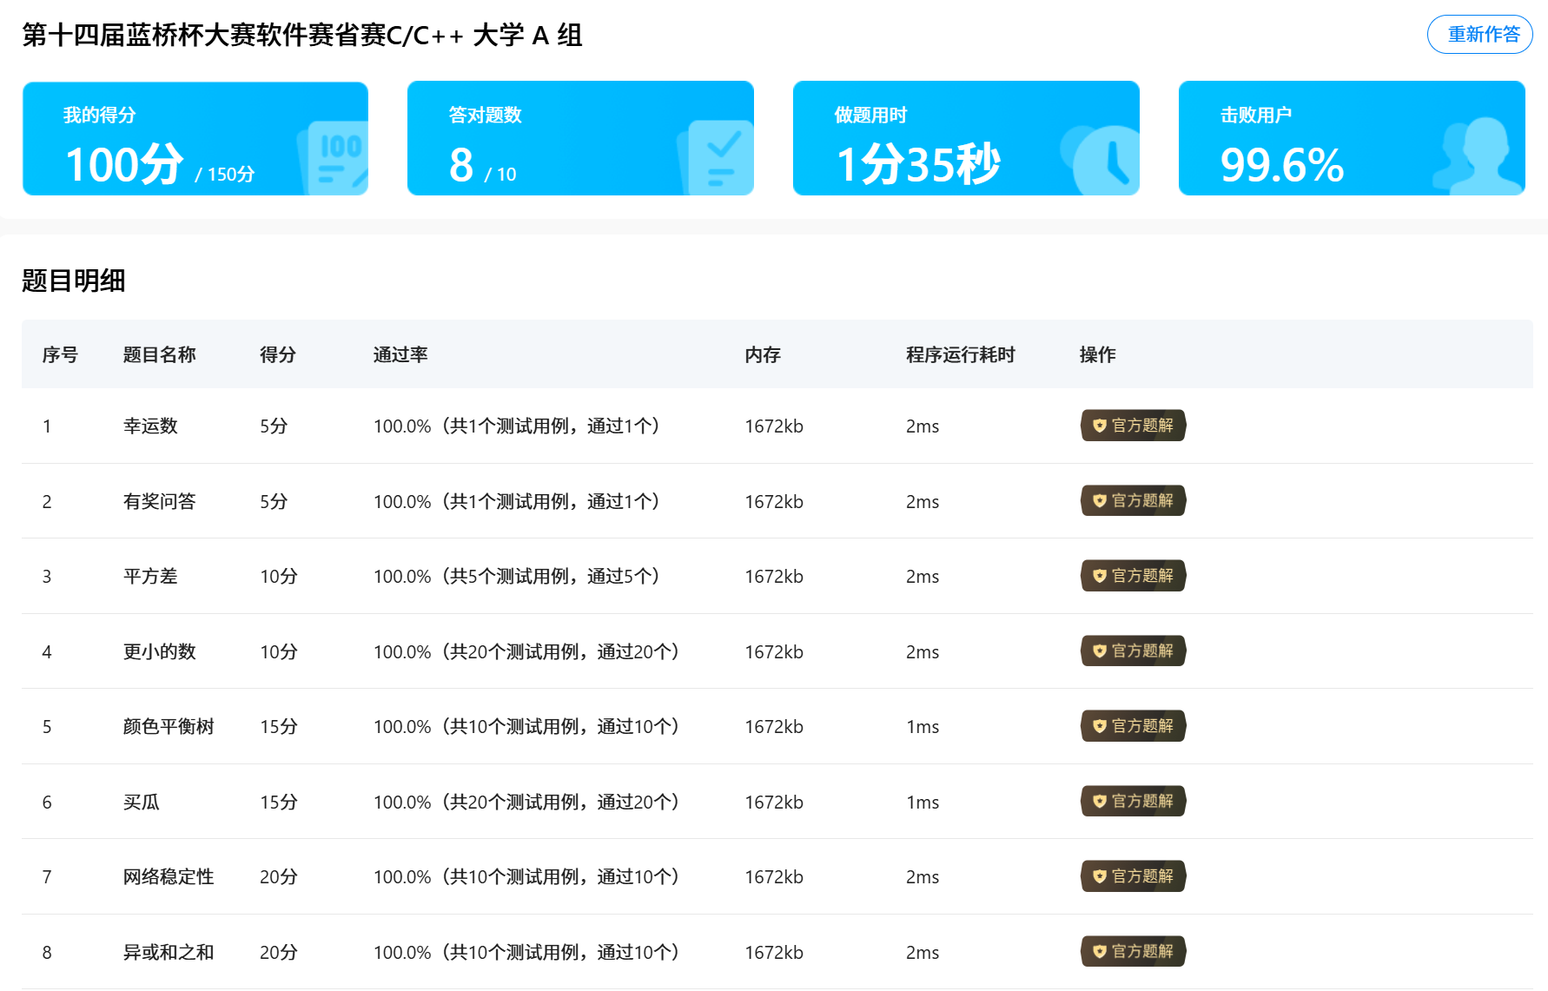
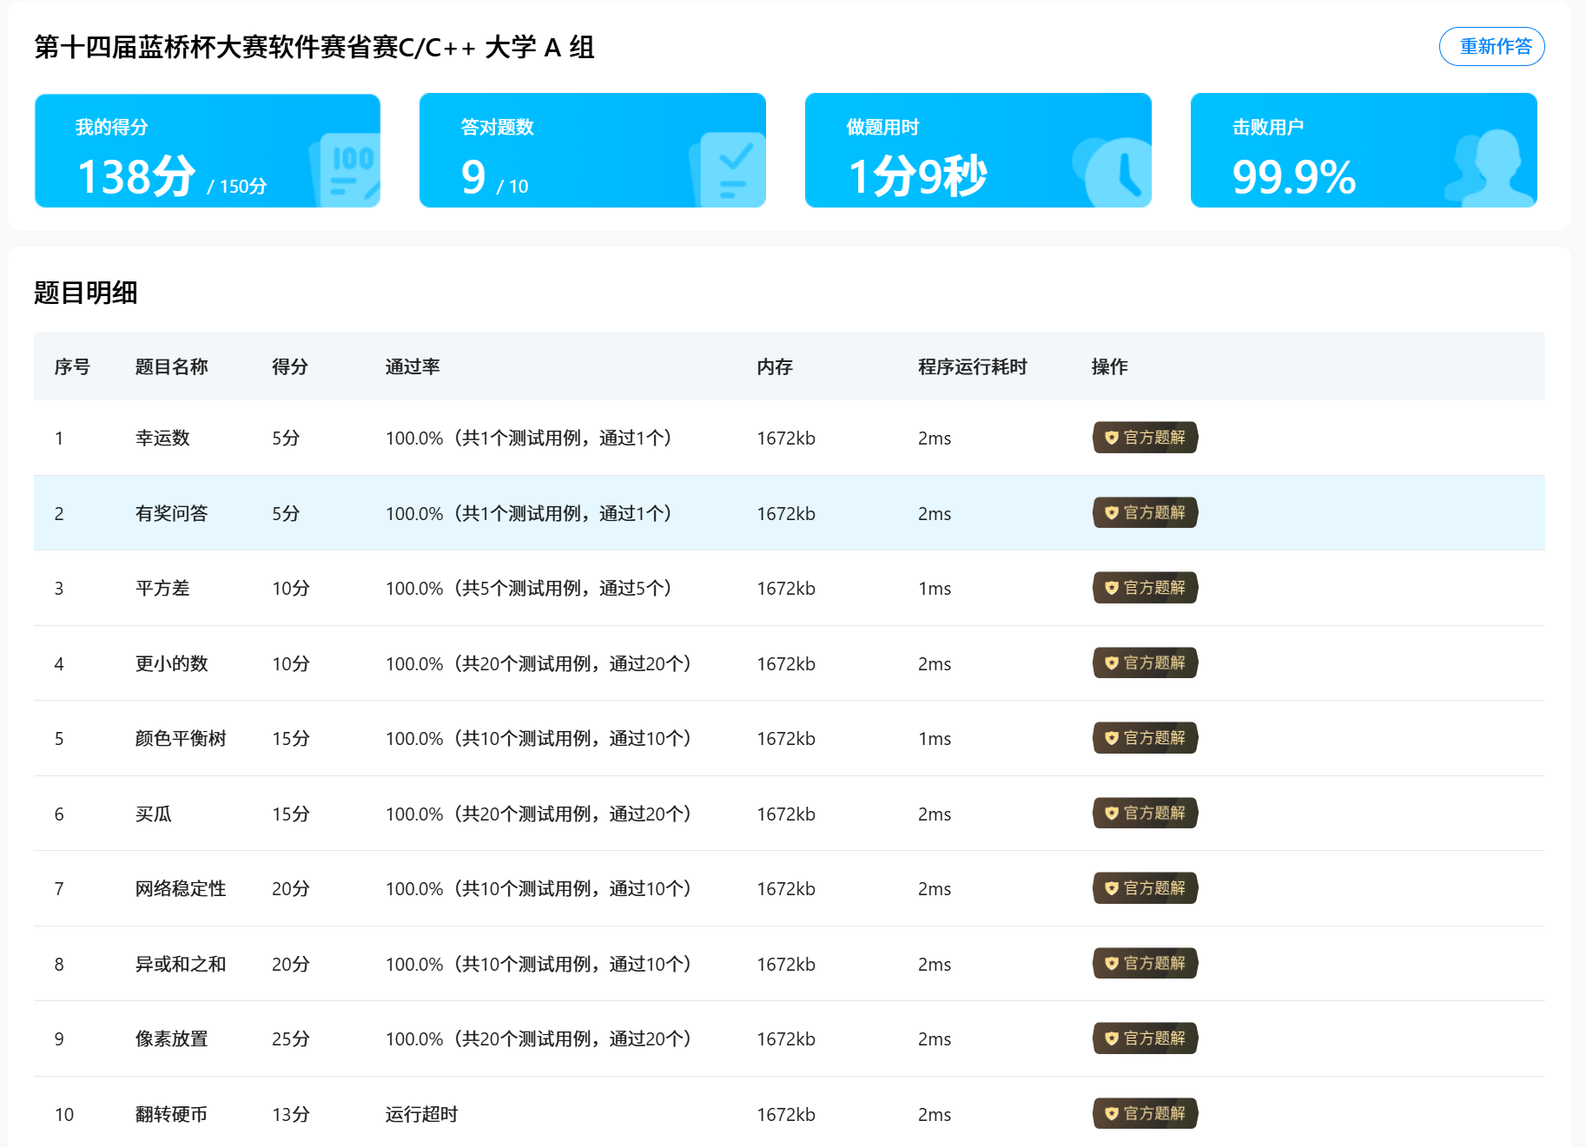
Site updated: 2025-02-22 19:04:52

diff --git a/posts/d747.html b/posts/d747.html
@@ -28,8 +28,10 @@
 <meta property="og:description" content="第十四届蓝桥杯软件赛省赛C++ A组 题解。">
 <meta property="og:locale" content="zh_CN">
 <meta property="og:image" content="http://qedminus20.github.io/posts/d747/1.png">
+<meta property="og:image" content="http://qedminus20.github.io/posts/d747/2.png">
+<meta property="og:image" content="http://qedminus20.github.io/posts/d747/3.png">
 <meta property="article:published_time" content="2025-02-21T10:44:07.000Z">
-<meta property="article:modified_time" content="2025-02-22T03:36:13.013Z">
+<meta property="article:modified_time" content="2025-02-22T11:00:29.869Z">
 <meta property="article:author" content="花生了什么树">
 <meta name="twitter:card" content="summary">
 <meta name="twitter:image" content="http://qedminus20.github.io/posts/d747/1.png">
@@ -304,10 +306,19 @@
 
 
 
-<blockquote>
-<p>能力有限，后面的题目以后再来探索叭。</p>
-</blockquote>
-<h3 id="9-像素放置"><a href="#9-像素放置" class="headerlink" title="9. 像素放置"></a>9. 像素放置</h3><h3 id="10-翻转硬币"><a href="#10-翻转硬币" class="headerlink" title="10. 翻转硬币"></a>10. 翻转硬币</h3>
+<h3 id="9-像素放置（25分）"><a href="#9-像素放置（25分）" class="headerlink" title="9. 像素放置（25分）"></a>9. 像素放置（25分）</h3><p>dfs，填入后 check 所有被这个点的填入所确定的数字，递归该过程。</p>
+<figure class="highlight cpp"><table><tr><td class="gutter"><pre><span class="line">1</span><br><span class="line">2</span><br><span class="line">3</span><br><span class="line">4</span><br><span class="line">5</span><br><span class="line">6</span><br><span class="line">7</span><br><span class="line">8</span><br><span class="line">9</span><br><span class="line">10</span><br><span class="line">11</span><br><span class="line">12</span><br><span class="line">13</span><br><span class="line">14</span><br><span class="line">15</span><br><span class="line">16</span><br><span class="line">17</span><br><span class="line">18</span><br><span class="line">19</span><br><span class="line">20</span><br><span class="line">21</span><br><span class="line">22</span><br><span class="line">23</span><br><span class="line">24</span><br><span class="line">25</span><br><span class="line">26</span><br><span class="line">27</span><br><span class="line">28</span><br><span class="line">29</span><br><span class="line">30</span><br><span class="line">31</span><br><span class="line">32</span><br><span class="line">33</span><br><span class="line">34</span><br><span class="line">35</span><br><span class="line">36</span><br><span class="line">37</span><br><span class="line">38</span><br><span class="line">39</span><br><span class="line">40</span><br><span class="line">41</span><br><span class="line">42</span><br><span class="line">43</span><br><span class="line">44</span><br><span class="line">45</span><br><span class="line">46</span><br><span class="line">47</span><br><span class="line">48</span><br><span class="line">49</span><br><span class="line">50</span><br><span class="line">51</span><br><span class="line">52</span><br><span class="line">53</span><br><span class="line">54</span><br><span class="line">55</span><br><span class="line">56</span><br><span class="line">57</span><br><span class="line">58</span><br><span class="line">59</span><br><span class="line">60</span><br><span class="line">61</span><br><span class="line">62</span><br><span class="line">63</span><br><span class="line">64</span><br><span class="line">65</span><br><span class="line">66</span><br><span class="line">67</span><br><span class="line">68</span><br><span class="line">69</span><br><span class="line">70</span><br><span class="line">71</span><br><span class="line">72</span><br><span class="line">73</span><br><span class="line">74</span><br><span class="line">75</span><br><span class="line">76</span><br><span class="line">77</span><br><span class="line">78</span><br><span class="line">79</span><br><span class="line">80</span><br><span class="line">81</span><br><span class="line">82</span><br><span class="line">83</span><br><span class="line">84</span><br><span class="line">85</span><br><span class="line">86</span><br><span class="line">87</span><br><span class="line">88</span><br><span class="line">89</span><br><span class="line">90</span><br><span class="line">91</span><br><span class="line">92</span><br><span class="line">93</span><br><span class="line">94</span><br><span class="line">95</span><br></pre></td><td class="code"><pre><span class="line"><span class="meta">#<span class="keyword">include</span><span class="string">&lt;bits/stdc++.h&gt;</span></span></span><br><span class="line"><span class="meta">#<span class="keyword">define</span> int long long </span></span><br><span class="line"><span class="keyword">using</span> <span class="keyword">namespace</span> std;</span><br><span class="line"></span><br><span class="line"><span class="function"><span class="type">void</span> <span class="title">solve</span><span class="params">()</span></span>&#123;</span><br><span class="line">    <span class="type">int</span> n, m; cin &gt;&gt; n &gt;&gt; m;</span><br><span class="line">    vector&lt;vector&lt;<span class="type">char</span>&gt;&gt;<span class="built_in">a</span>(n + <span class="number">2</span>, <span class="built_in">vector</span>&lt;<span class="type">char</span>&gt;(m + <span class="number">2</span>));</span><br><span class="line">    <span class="keyword">for</span>(<span class="type">int</span> i = <span class="number">1</span>; i &lt;= n; i++)&#123;</span><br><span class="line">        <span class="keyword">for</span>(<span class="type">int</span> j = <span class="number">1</span>; j &lt;= m; j++)&#123;</span><br><span class="line">            cin &gt;&gt; a[i][j];</span><br><span class="line">        &#125;</span><br><span class="line">    &#125;</span><br><span class="line"></span><br><span class="line">    vector&lt;vector&lt;<span class="type">bool</span>&gt;&gt;<span class="built_in">vis</span>(n + <span class="number">2</span>, <span class="built_in">vector</span>&lt;<span class="type">bool</span>&gt;(m + <span class="number">2</span>));</span><br><span class="line"></span><br><span class="line">    <span class="keyword">auto</span> check = [&amp;](<span class="type">int</span> x, <span class="type">int</span> y) -&gt; <span class="type">bool</span>&#123;</span><br><span class="line">        <span class="keyword">if</span>(a[x][y] == <span class="string">&#x27;_&#x27;</span>) <span class="keyword">return</span> <span class="number">1</span>;</span><br><span class="line">        <span class="type">int</span> cnt = <span class="number">0</span>;</span><br><span class="line">        <span class="keyword">for</span>(<span class="type">int</span> i = x - <span class="number">1</span>; i &lt;= x + <span class="number">1</span>; i++)&#123;</span><br><span class="line">            <span class="keyword">for</span>(<span class="type">int</span> j = y - <span class="number">1</span>; j &lt;= y + <span class="number">1</span>; j++)&#123;</span><br><span class="line">                cnt += vis[i][j];</span><br><span class="line">            &#125;</span><br><span class="line">        &#125;</span><br><span class="line">        <span class="keyword">return</span> cnt == a[x][y] - <span class="string">&#x27;0&#x27;</span>;</span><br><span class="line">    &#125;;</span><br><span class="line"></span><br><span class="line">    function&lt;<span class="type">void</span>(<span class="type">int</span>, <span class="type">int</span>)&gt;dfs = [&amp;](<span class="type">int</span> x, <span class="type">int</span> y)&#123;</span><br><span class="line"></span><br><span class="line">        <span class="type">int</span> ok = <span class="number">1</span>;</span><br><span class="line">        </span><br><span class="line">        vis[x][y] = <span class="number">1</span>;</span><br><span class="line">        <span class="keyword">if</span>(x - <span class="number">1</span> &gt;= <span class="number">1</span> &amp;&amp; y - <span class="number">1</span> &gt;= <span class="number">1</span>)&#123;</span><br><span class="line">            ok &amp;= <span class="built_in">check</span>(x - <span class="number">1</span>, y - <span class="number">1</span>); </span><br><span class="line">        &#125;</span><br><span class="line">        <span class="keyword">if</span>(y == m &amp;&amp; x - <span class="number">1</span> &gt;= <span class="number">1</span>)&#123;</span><br><span class="line">            ok &amp;= <span class="built_in">check</span>(x - <span class="number">1</span>, y);</span><br><span class="line">        &#125;</span><br><span class="line">        <span class="keyword">if</span>(x == n &amp;&amp; y - <span class="number">1</span> &gt;= <span class="number">1</span>)&#123;</span><br><span class="line">            ok &amp;= <span class="built_in">check</span>(x, y - <span class="number">1</span>);</span><br><span class="line">        &#125;</span><br><span class="line">        <span class="keyword">if</span>(x == n &amp;&amp; y == m)&#123;</span><br><span class="line">            ok &amp;= <span class="built_in">check</span>(x, y);</span><br><span class="line">        &#125;</span><br><span class="line">        <span class="keyword">if</span>(ok) &#123;</span><br><span class="line">            <span class="keyword">if</span>(x == n &amp;&amp; y == m)&#123;</span><br><span class="line">                <span class="keyword">for</span>(<span class="type">int</span> i = <span class="number">1</span>; i &lt;= n; i++)&#123;</span><br><span class="line">                    <span class="keyword">for</span>(<span class="type">int</span> j = <span class="number">1</span>; j &lt;= m; j++)&#123;</span><br><span class="line">                        cout &lt;&lt; vis[i][j];</span><br><span class="line">                    &#125;</span><br><span class="line">                    cout &lt;&lt; <span class="string">&#x27;\n&#x27;</span>;</span><br><span class="line">                &#125;</span><br><span class="line">                <span class="built_in">exit</span>(<span class="number">0</span>);</span><br><span class="line">            &#125;</span><br><span class="line">            <span class="keyword">if</span>(y == m) <span class="built_in">dfs</span>(x + <span class="number">1</span>, <span class="number">1</span>);</span><br><span class="line">            <span class="keyword">else</span> <span class="built_in">dfs</span>(x, y + <span class="number">1</span>);</span><br><span class="line">        &#125;</span><br><span class="line"></span><br><span class="line">        vis[x][y] = <span class="number">0</span>;</span><br><span class="line">        ok = <span class="number">1</span>;</span><br><span class="line">        <span class="keyword">if</span>(x - <span class="number">1</span> &gt;= <span class="number">1</span> &amp;&amp; y - <span class="number">1</span> &gt;= <span class="number">1</span>)&#123;</span><br><span class="line">            ok &amp;= <span class="built_in">check</span>(x - <span class="number">1</span>, y - <span class="number">1</span>);</span><br><span class="line">        &#125;</span><br><span class="line">        <span class="keyword">if</span>(y == m &amp;&amp; x - <span class="number">1</span> &gt;= <span class="number">1</span>)&#123;</span><br><span class="line">            ok &amp;= <span class="built_in">check</span>(x - <span class="number">1</span>, y);</span><br><span class="line">        &#125;</span><br><span class="line">        <span class="keyword">if</span>(x == n &amp;&amp; y - <span class="number">1</span> &gt;= <span class="number">1</span>)&#123;</span><br><span class="line">            ok &amp;= <span class="built_in">check</span>(x, y - <span class="number">1</span>);</span><br><span class="line">        &#125;</span><br><span class="line">        <span class="keyword">if</span>(x == n &amp;&amp; y == m)&#123;</span><br><span class="line">            ok &amp;= <span class="built_in">check</span>(x, y);</span><br><span class="line">        &#125;</span><br><span class="line">        <span class="keyword">if</span>(ok) &#123;</span><br><span class="line">            <span class="keyword">if</span>(x == n &amp;&amp; y == m)&#123;</span><br><span class="line">                <span class="keyword">for</span>(<span class="type">int</span> i = <span class="number">1</span>; i &lt;= n; i++)&#123;</span><br><span class="line">                    <span class="keyword">for</span>(<span class="type">int</span> j = <span class="number">1</span>; j &lt;= m; j++)&#123;</span><br><span class="line">                        cout &lt;&lt; vis[i][j];</span><br><span class="line">                    &#125;</span><br><span class="line">                    cout &lt;&lt; <span class="string">&#x27;\n&#x27;</span>;</span><br><span class="line">                &#125;</span><br><span class="line">                <span class="built_in">exit</span>(<span class="number">0</span>);</span><br><span class="line">            &#125;</span><br><span class="line">            <span class="keyword">if</span>(y == m) <span class="built_in">dfs</span>(x + <span class="number">1</span>, <span class="number">1</span>);</span><br><span class="line">            <span class="keyword">else</span> <span class="built_in">dfs</span>(x, y + <span class="number">1</span>);</span><br><span class="line">        &#125;</span><br><span class="line">    &#125;;</span><br><span class="line"></span><br><span class="line">    <span class="built_in">dfs</span>(<span class="number">1</span>, <span class="number">1</span>);</span><br><span class="line">&#125;</span><br><span class="line"></span><br><span class="line"><span class="function"><span class="type">signed</span> <span class="title">main</span><span class="params">()</span></span>&#123;</span><br><span class="line">    ios::<span class="built_in">sync_with_stdio</span>(<span class="number">0</span>);</span><br><span class="line">    cin.<span class="built_in">tie</span>(<span class="number">0</span>);</span><br><span class="line">    <span class="built_in">solve</span>();</span><br><span class="line">    <span class="keyword">return</span> <span class="number">0</span>;</span><br><span class="line">&#125;</span><br></pre></td></tr></table></figure>
+
+
+
+<h3 id="10-翻转硬币（13-25分）"><a href="#10-翻转硬币（13-25分）" class="headerlink" title="10. 翻转硬币（13&#x2F;25分）"></a>10. 翻转硬币（13&#x2F;25分）</h3><p>正解疑似太难，学不会）这里给出一个暴力的解法，能通过 55%</p>
+<figure class="highlight cpp"><table><tr><td class="gutter"><pre><span class="line">1</span><br><span class="line">2</span><br><span class="line">3</span><br><span class="line">4</span><br><span class="line">5</span><br><span class="line">6</span><br><span class="line">7</span><br><span class="line">8</span><br><span class="line">9</span><br><span class="line">10</span><br><span class="line">11</span><br><span class="line">12</span><br><span class="line">13</span><br><span class="line">14</span><br><span class="line">15</span><br><span class="line">16</span><br><span class="line">17</span><br><span class="line">18</span><br><span class="line">19</span><br><span class="line">20</span><br><span class="line">21</span><br><span class="line">22</span><br><span class="line">23</span><br><span class="line">24</span><br><span class="line">25</span><br><span class="line">26</span><br></pre></td><td class="code"><pre><span class="line"><span class="meta">#<span class="keyword">include</span><span class="string">&lt;bits/stdc++.h&gt;</span></span></span><br><span class="line"><span class="meta">#<span class="keyword">define</span> int long long</span></span><br><span class="line"><span class="keyword">using</span> <span class="keyword">namespace</span> std;</span><br><span class="line"></span><br><span class="line"><span class="function"><span class="type">void</span> <span class="title">solve</span><span class="params">()</span></span>&#123;</span><br><span class="line">    <span class="type">int</span> n; cin &gt;&gt; n;</span><br><span class="line">    <span class="type">int</span> cnt = <span class="number">1</span>;</span><br><span class="line">    vector&lt;<span class="type">bool</span>&gt;<span class="built_in">a</span>(n + <span class="number">1</span>);</span><br><span class="line">    a[<span class="number">1</span>] = <span class="literal">true</span>;</span><br><span class="line">    <span class="keyword">for</span>(<span class="type">int</span> i = <span class="number">2</span>; i &lt;= n; i++)&#123;</span><br><span class="line">        <span class="keyword">if</span>(a[i]) <span class="keyword">continue</span>;</span><br><span class="line">        a[i] = <span class="literal">true</span>;</span><br><span class="line">        cnt++;</span><br><span class="line">        <span class="keyword">for</span>(<span class="type">int</span> j = i * <span class="number">2</span>; j &lt;= n; j += i)&#123;</span><br><span class="line">            a[j] = !a[j];</span><br><span class="line">        &#125;</span><br><span class="line">    &#125;    </span><br><span class="line">    cout &lt;&lt; cnt;</span><br><span class="line">&#125;</span><br><span class="line"></span><br><span class="line"><span class="function"><span class="type">signed</span> <span class="title">main</span><span class="params">()</span></span>&#123;</span><br><span class="line">    ios::<span class="built_in">sync_with_stdio</span>(<span class="number">0</span>);</span><br><span class="line">    cin.<span class="built_in">tie</span>(<span class="number">0</span>);</span><br><span class="line">    <span class="built_in">solve</span>();</span><br><span class="line">    <span class="keyword">return</span> <span class="number">0</span>;</span><br><span class="line">&#125;</span><br></pre></td></tr></table></figure>
+
+<p>至于正解，把解析搬过来供大家欣赏。</p>
+<img src="/posts/d747/2.png" class="">
+
+<img src="/posts/d747/3.png" class="">
+
     </div>
 
     
@@ -384,7 +395,7 @@
 
       <!--noindex-->
       <div class="post-toc-wrap sidebar-panel">
-          <div class="post-toc motion-element"><ol class="nav"><li class="nav-item nav-level-2"><a class="nav-link" href="#%E5%A1%AB%E7%A9%BA%E9%A2%98"><span class="nav-number">1.</span> <span class="nav-text">填空题</span></a><ol class="nav-child"><li class="nav-item nav-level-3"><a class="nav-link" href="#1-%E5%B9%B8%E8%BF%90%E6%95%B0%EF%BC%885%E5%88%86%EF%BC%89"><span class="nav-number">1.1.</span> <span class="nav-text">1. 幸运数（5分）</span></a></li><li class="nav-item nav-level-3"><a class="nav-link" href="#2-%E6%9C%89%E5%A5%96%E9%97%AE%E7%AD%94%EF%BC%885%E5%88%86%EF%BC%89"><span class="nav-number">1.2.</span> <span class="nav-text">2. 有奖问答（5分）</span></a></li></ol></li><li class="nav-item nav-level-2"><a class="nav-link" href="#%E7%A8%8B%E5%BA%8F%E9%A2%98"><span class="nav-number">2.</span> <span class="nav-text">程序题</span></a><ol class="nav-child"><li class="nav-item nav-level-3"><a class="nav-link" href="#3-%E5%B9%B3%E6%96%B9%E5%B7%AE%EF%BC%8810%E5%88%86%EF%BC%89"><span class="nav-number">2.1.</span> <span class="nav-text">3. 平方差（10分）</span></a></li><li class="nav-item nav-level-3"><a class="nav-link" href="#4-%E6%9B%B4%E5%B0%8F%E7%9A%84%E6%95%B0%EF%BC%8810%E5%88%86%EF%BC%89"><span class="nav-number">2.2.</span> <span class="nav-text">4. 更小的数（10分）</span></a></li><li class="nav-item nav-level-3"><a class="nav-link" href="#5-%E9%A2%9C%E8%89%B2%E5%B9%B3%E8%A1%A1%E6%A0%91%EF%BC%8815%E5%88%86%EF%BC%89"><span class="nav-number">2.3.</span> <span class="nav-text">5. 颜色平衡树（15分）</span></a></li><li class="nav-item nav-level-3"><a class="nav-link" href="#6-%E4%B9%B0%E7%93%9C%EF%BC%8815%E5%88%86%EF%BC%89"><span class="nav-number">2.4.</span> <span class="nav-text">6. 买瓜（15分）</span></a></li><li class="nav-item nav-level-3"><a class="nav-link" href="#7-%E7%BD%91%E7%BB%9C%E7%A8%B3%E5%AE%9A%E6%80%A7%EF%BC%8820%E5%88%86%EF%BC%89"><span class="nav-number">2.5.</span> <span class="nav-text">7. 网络稳定性（20分）</span></a></li><li class="nav-item nav-level-3"><a class="nav-link" href="#8-%E5%BC%82%E6%88%96%E5%92%8C%E4%B9%8B%E5%92%8C%EF%BC%8820%E5%88%86%EF%BC%89"><span class="nav-number">2.6.</span> <span class="nav-text">8. 异或和之和（20分）</span></a></li><li class="nav-item nav-level-3"><a class="nav-link" href="#9-%E5%83%8F%E7%B4%A0%E6%94%BE%E7%BD%AE"><span class="nav-number">2.7.</span> <span class="nav-text">9. 像素放置</span></a></li><li class="nav-item nav-level-3"><a class="nav-link" href="#10-%E7%BF%BB%E8%BD%AC%E7%A1%AC%E5%B8%81"><span class="nav-number">2.8.</span> <span class="nav-text">10. 翻转硬币</span></a></li></ol></li></ol></div>
+          <div class="post-toc motion-element"><ol class="nav"><li class="nav-item nav-level-2"><a class="nav-link" href="#%E5%A1%AB%E7%A9%BA%E9%A2%98"><span class="nav-number">1.</span> <span class="nav-text">填空题</span></a><ol class="nav-child"><li class="nav-item nav-level-3"><a class="nav-link" href="#1-%E5%B9%B8%E8%BF%90%E6%95%B0%EF%BC%885%E5%88%86%EF%BC%89"><span class="nav-number">1.1.</span> <span class="nav-text">1. 幸运数（5分）</span></a></li><li class="nav-item nav-level-3"><a class="nav-link" href="#2-%E6%9C%89%E5%A5%96%E9%97%AE%E7%AD%94%EF%BC%885%E5%88%86%EF%BC%89"><span class="nav-number">1.2.</span> <span class="nav-text">2. 有奖问答（5分）</span></a></li></ol></li><li class="nav-item nav-level-2"><a class="nav-link" href="#%E7%A8%8B%E5%BA%8F%E9%A2%98"><span class="nav-number">2.</span> <span class="nav-text">程序题</span></a><ol class="nav-child"><li class="nav-item nav-level-3"><a class="nav-link" href="#3-%E5%B9%B3%E6%96%B9%E5%B7%AE%EF%BC%8810%E5%88%86%EF%BC%89"><span class="nav-number">2.1.</span> <span class="nav-text">3. 平方差（10分）</span></a></li><li class="nav-item nav-level-3"><a class="nav-link" href="#4-%E6%9B%B4%E5%B0%8F%E7%9A%84%E6%95%B0%EF%BC%8810%E5%88%86%EF%BC%89"><span class="nav-number">2.2.</span> <span class="nav-text">4. 更小的数（10分）</span></a></li><li class="nav-item nav-level-3"><a class="nav-link" href="#5-%E9%A2%9C%E8%89%B2%E5%B9%B3%E8%A1%A1%E6%A0%91%EF%BC%8815%E5%88%86%EF%BC%89"><span class="nav-number">2.3.</span> <span class="nav-text">5. 颜色平衡树（15分）</span></a></li><li class="nav-item nav-level-3"><a class="nav-link" href="#6-%E4%B9%B0%E7%93%9C%EF%BC%8815%E5%88%86%EF%BC%89"><span class="nav-number">2.4.</span> <span class="nav-text">6. 买瓜（15分）</span></a></li><li class="nav-item nav-level-3"><a class="nav-link" href="#7-%E7%BD%91%E7%BB%9C%E7%A8%B3%E5%AE%9A%E6%80%A7%EF%BC%8820%E5%88%86%EF%BC%89"><span class="nav-number">2.5.</span> <span class="nav-text">7. 网络稳定性（20分）</span></a></li><li class="nav-item nav-level-3"><a class="nav-link" href="#8-%E5%BC%82%E6%88%96%E5%92%8C%E4%B9%8B%E5%92%8C%EF%BC%8820%E5%88%86%EF%BC%89"><span class="nav-number">2.6.</span> <span class="nav-text">8. 异或和之和（20分）</span></a></li><li class="nav-item nav-level-3"><a class="nav-link" href="#9-%E5%83%8F%E7%B4%A0%E6%94%BE%E7%BD%AE%EF%BC%8825%E5%88%86%EF%BC%89"><span class="nav-number">2.7.</span> <span class="nav-text">9. 像素放置（25分）</span></a></li><li class="nav-item nav-level-3"><a class="nav-link" href="#10-%E7%BF%BB%E8%BD%AC%E7%A1%AC%E5%B8%81%EF%BC%8813-25%E5%88%86%EF%BC%89"><span class="nav-number">2.8.</span> <span class="nav-text">10. 翻转硬币（13&#x2F;25分）</span></a></li></ol></li></ol></div>
       </div>
       <!--/noindex-->
 

diff --git a/css/main.css b/css/main.css
@@ -1169,7 +1169,7 @@ pre .javascript .function {
 }
 .links-of-author a::before,
 .links-of-author span.exturl::before {
-  background: #11ffda;
+  background: #4dff5d;
   border-radius: 50%;
   content: ' ';
   display: inline-block;
